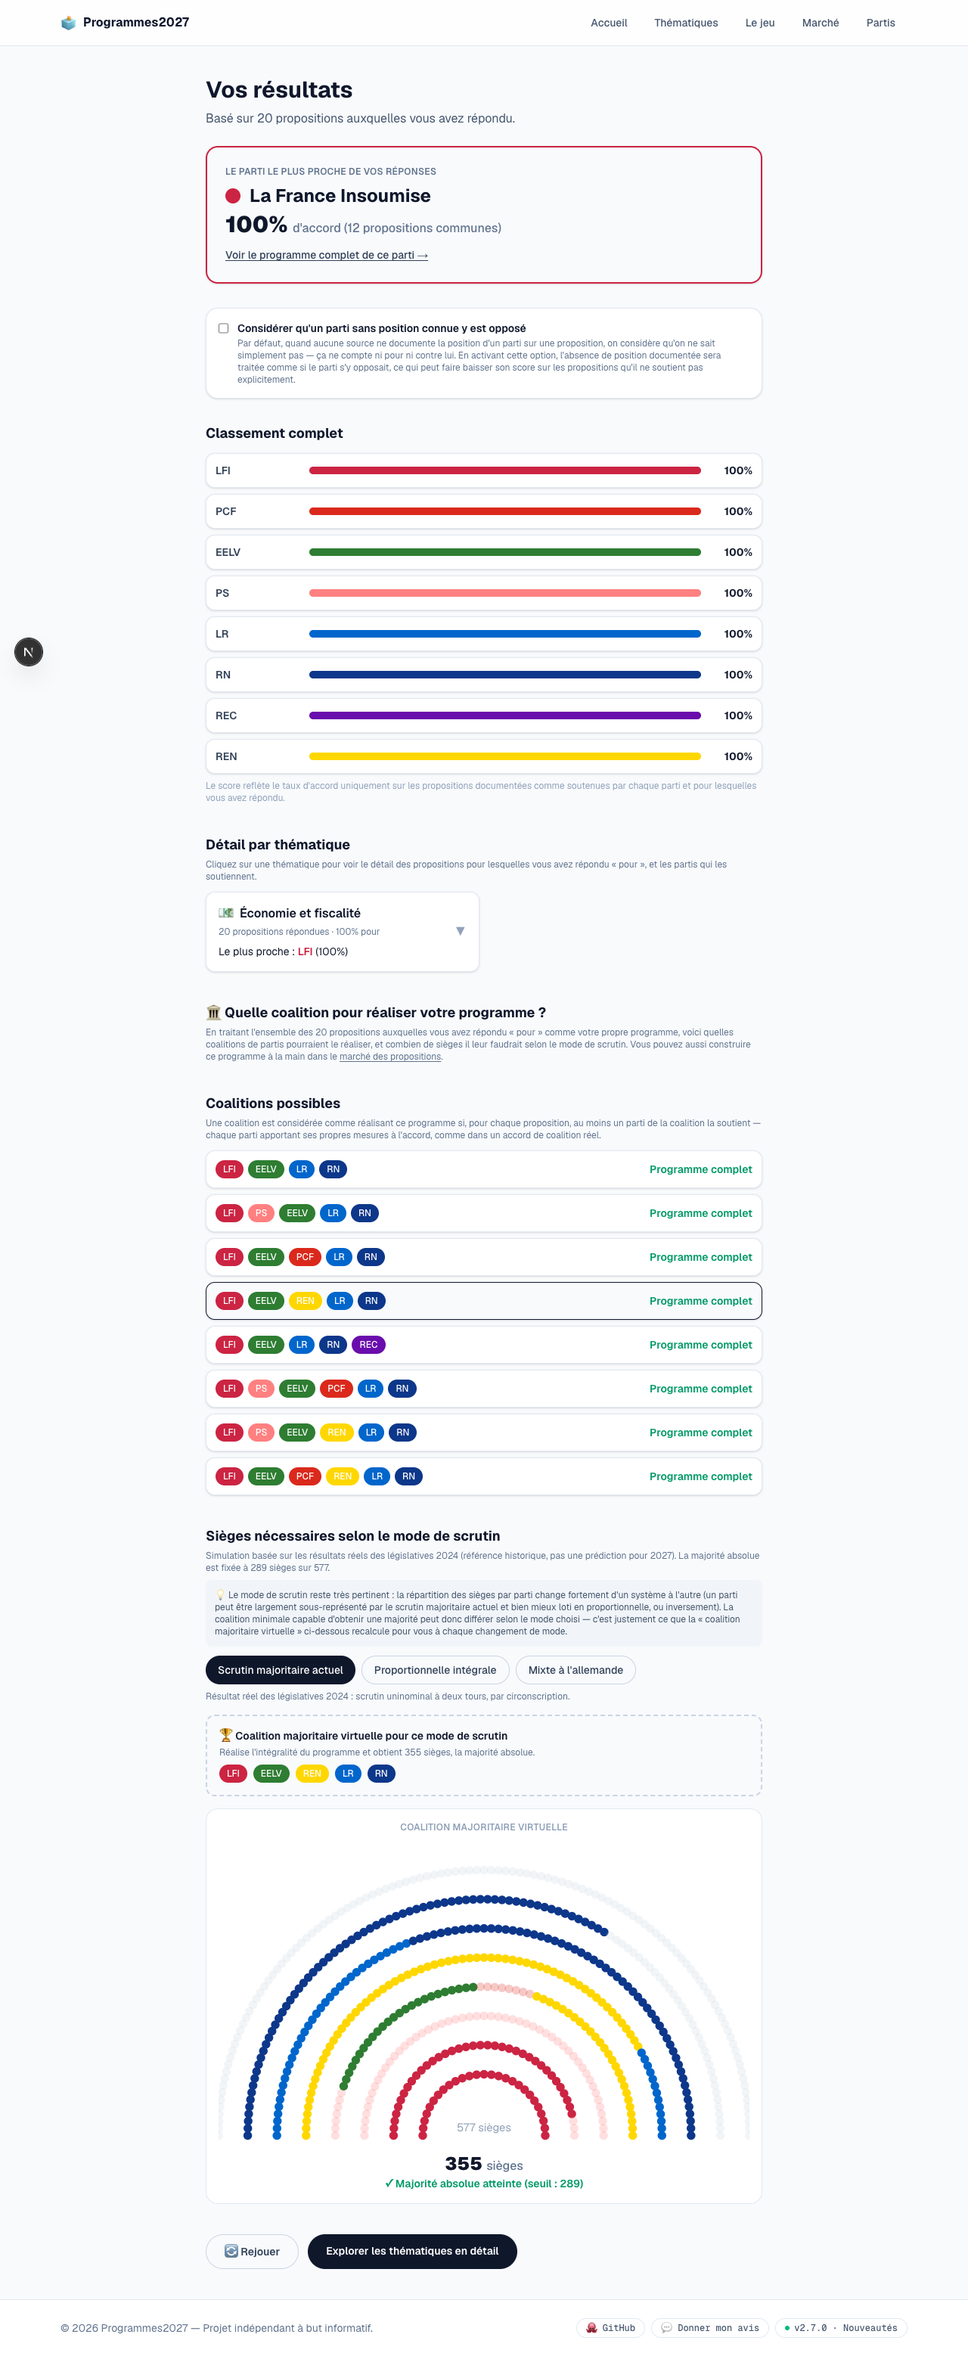
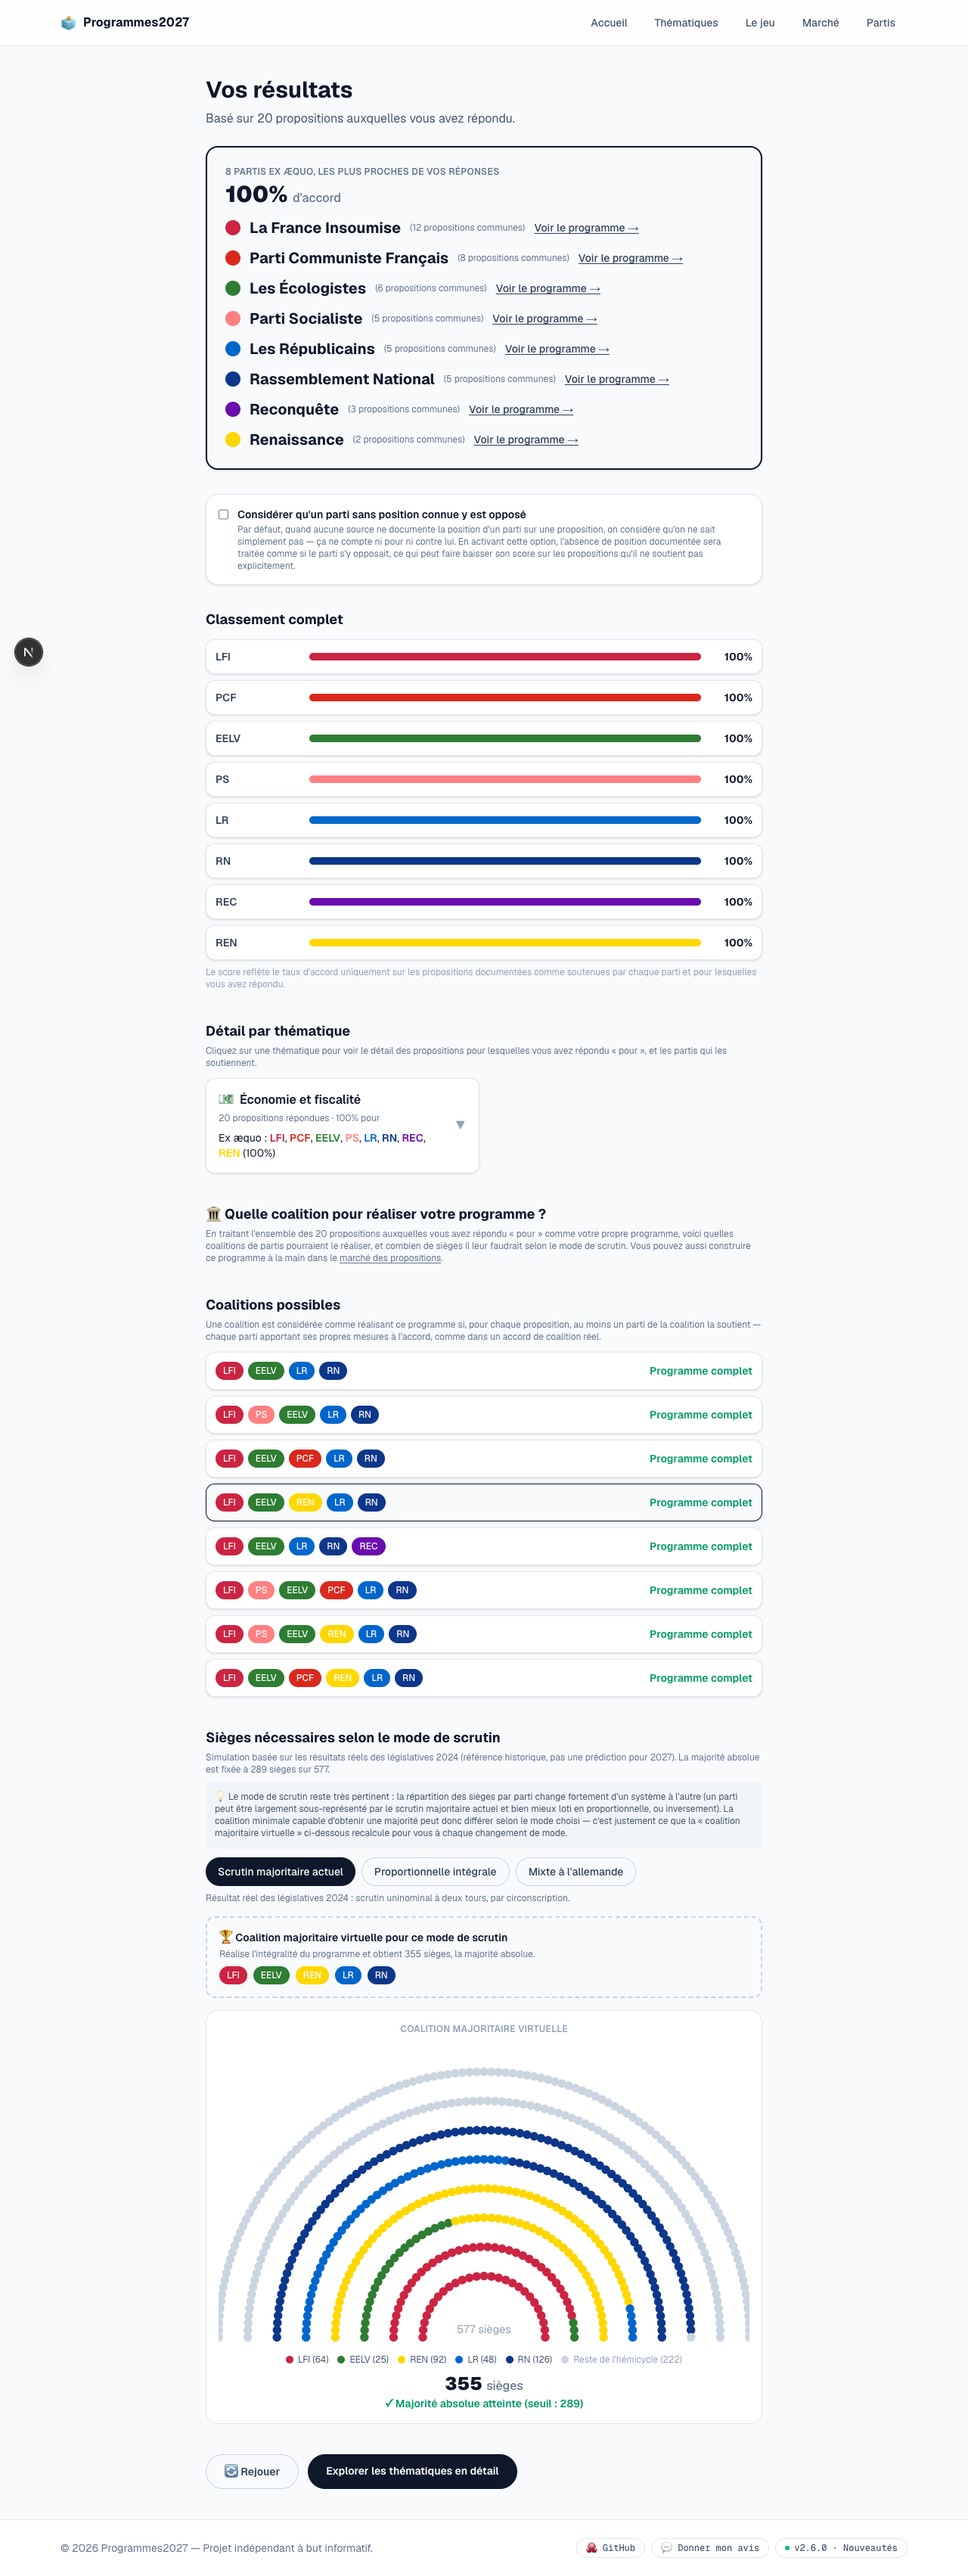
Redesign hemicycle like Le Monde's coalition simulator

Changed region(s): [[0.2188, 0.0311, 0.7812, 0.9653], [0.2188, 0.9342, 0.2812, 0.9653], [0.0, 0.2491, 0.0625, 0.2803]]

diff --git a/src/components/Hemicycle.tsx b/src/components/Hemicycle.tsx
@@ -11,11 +11,36 @@ interface HemicycleProps {
   highlightParties?: PartyId[];
 }
 
+const OTHER_COLOR = "#CBD5E1"; // slate-300
+
 /**
- * Simple semi-circle hemicycle visualization: seats are laid out along
- * concentric arcs, filled in party order (an approximation of a real
- * hemicycle seating chart — not an exact reproduction of the Assemblée
- * nationale's actual seat-by-seat layout).
+ * Left-to-right political ordering used to group coalition seats
+ * together in a sensible order (roughly matching how French party
+ * spectrum charts are usually drawn), instead of an arbitrary object key
+ * order.
+ */
+const POLITICAL_ORDER: PartyId[] = [
+  "lfi",
+  "pcf",
+  "eelv",
+  "ps",
+  "renaissance",
+  "lr",
+  "rn",
+  "reconquete",
+];
+
+/**
+ * Hemicycle visualization inspired by Le Monde's coalition simulator
+ * (https://www.lemonde.fr/les-decodeurs/.../simulateur-de-coalition):
+ * rather than showing every party in its "natural" seat block and
+ * dimming the ones outside the coalition, seats belonging to the
+ * coalition are packed together from the left, in political order, and
+ * every other seat (any party not in the coalition, plus the "autres"
+ * bloc) is grouped as a single grey mass on the right. This makes it
+ * immediately visible how much of the hemicycle the coalition actually
+ * fills, rather than requiring the reader to mentally sum scattered
+ * colored dots.
  */
 export function Hemicycle({
   seatsByParty,
@@ -23,28 +48,46 @@ export function Hemicycle({
   totalSeats,
   highlightParties,
 }: HemicycleProps) {
-  const OTHER_COLOR = "#CBD5E1"; // slate-300
+  const highlightSet = new Set(highlightParties ?? []);
 
-  const blocks: Array<{ id: string; color: string; count: number; dimmed: boolean }> = [
-    ...(Object.entries(seatsByParty) as Array<[PartyId, number | undefined]>)
-      .filter(([, count]) => (count ?? 0) > 0)
-      .map(([id, count]) => ({
-        id,
-        color: partyById[id].color,
-        count: count ?? 0,
-        dimmed: !!highlightParties && !highlightParties.includes(id),
-      })),
-    ...(otherSeats > 0
-      ? [{ id: "autres", color: OTHER_COLOR, count: otherSeats, dimmed: !!highlightParties }]
-      : []),
-  ];
+  const orderedPartyIds = Object.keys(seatsByParty).sort(
+    (a, b) => POLITICAL_ORDER.indexOf(a as PartyId) - POLITICAL_ORDER.indexOf(b as PartyId)
+  ) as PartyId[];
 
-  // Flatten into a single ordered list of per-seat colors.
-  const seatColors: Array<{ color: string; dimmed: boolean }> = [];
-  for (const b of blocks) {
-    for (let i = 0; i < b.count; i++) {
-      seatColors.push({ color: b.color, dimmed: b.dimmed });
+  const coalitionBlocks: Array<{ id: string; color: string; count: number }> = [];
+  let inactiveCount = otherSeats;
+
+  for (const id of orderedPartyIds) {
+    const count = seatsByParty[id] ?? 0;
+    if (count <= 0) continue;
+    if (highlightSet.has(id)) {
+      coalitionBlocks.push({ id, color: partyById[id].color, count });
+    } else {
+      inactiveCount += count;
     }
+  }
+
+  // If no coalition was specified at all, show every party in its own
+  // color (no grouping/greying) — falls back to the "everyone visible"
+  // case.
+  const noHighlight = !highlightParties || highlightParties.length === 0;
+  const blocks = noHighlight
+    ? [
+        ...orderedPartyIds
+          .filter((id) => (seatsByParty[id] ?? 0) > 0)
+          .map((id) => ({ id, color: partyById[id].color, count: seatsByParty[id] ?? 0 })),
+        ...(otherSeats > 0 ? [{ id: "autres", color: OTHER_COLOR, count: otherSeats }] : []),
+      ]
+    : [
+        ...coalitionBlocks,
+        ...(inactiveCount > 0 ? [{ id: "inactifs", color: OTHER_COLOR, count: inactiveCount }] : []),
+      ];
+
+  // Flatten into a single ordered list of per-seat colors, coalition
+  // (or all parties) first, grey mass last.
+  const seatColors: string[] = [];
+  for (const b of blocks) {
+    for (let i = 0; i < b.count; i++) seatColors.push(b.color);
   }
 
   const rows = 8;
@@ -64,7 +107,7 @@ export function Hemicycle({
     Math.max(1, Math.round((w / totalWeight) * seatColors.length))
   );
 
-  const seatNodes: Array<{ x: number; y: number; color: string; dimmed: boolean }> = [];
+  const seatNodes: Array<{ x: number; y: number; color: string }> = [];
   let seatIndex = 0;
   for (let row = 0; row < rows; row++) {
     const r = rowRadii[row];
@@ -74,31 +117,49 @@ export function Hemicycle({
       const angle = Math.PI - t * Math.PI; // left (PI) to right (0)
       const x = cx + r * Math.cos(angle);
       const y = cy - r * Math.sin(angle);
-      seatNodes.push({ x, y, color: seatColors[seatIndex].color, dimmed: seatColors[seatIndex].dimmed });
+      seatNodes.push({ x, y, color: seatColors[seatIndex] });
     }
   }
 
   return (
-    <svg viewBox={`0 0 ${width} ${height}`} className="w-full" role="img" aria-label="Hémicycle">
-      {seatNodes.map((s, i) => (
-        <circle
-          key={i}
-          cx={s.x}
-          cy={s.y}
-          r={4.2}
-          fill={s.color}
-          opacity={s.dimmed ? 0.25 : 1}
-        />
-      ))}
-      <text
-        x={cx}
-        y={cy - 4}
-        textAnchor="middle"
-        className="fill-slate-400"
-        style={{ fontSize: 11 }}
-      >
-        {totalSeats} sièges
-      </text>
-    </svg>
+    <div>
+      <svg viewBox={`0 0 ${width} ${height}`} className="w-full" role="img" aria-label="Hémicycle">
+        {seatNodes.map((s, i) => (
+          <circle key={i} cx={s.x} cy={s.y} r={4.2} fill={s.color} />
+        ))}
+        <text
+          x={cx}
+          y={cy - 4}
+          textAnchor="middle"
+          className="fill-slate-400"
+          style={{ fontSize: 11 }}
+        >
+          {totalSeats} sièges
+        </text>
+      </svg>
+
+      {!noHighlight && (
+        <div className="mt-2 flex flex-wrap items-center justify-center gap-x-3 gap-y-1">
+          {coalitionBlocks.map((b) => (
+            <span key={b.id} className="flex items-center gap-1.5 text-xs text-slate-600">
+              <span
+                className="h-2.5 w-2.5 rounded-full"
+                style={{ backgroundColor: b.color }}
+              />
+              {partyById[b.id as PartyId].shortName} ({b.count})
+            </span>
+          ))}
+          {inactiveCount > 0 && (
+            <span className="flex items-center gap-1.5 text-xs text-slate-400">
+              <span
+                className="h-2.5 w-2.5 rounded-full"
+                style={{ backgroundColor: OTHER_COLOR }}
+              />
+              Reste de l&apos;hémicycle ({inactiveCount})
+            </span>
+          )}
+        </div>
+      )}
+    </div>
   );
 }

diff --git a/README.md b/README.md
@@ -35,8 +35,9 @@ reprendre plus tard.
 
 ![Le jeu à l'aveugle](public/screenshots/jeu.png)
 
-À la fin, vos résultats vous indiquent le parti le plus proche de vos
-réponses, le détail par thématique (avec, pour chaque thématique, la
+À la fin, vos résultats vous indiquent le(s) parti(s) le(s) plus
+proche(s) de vos réponses (tous affichés ex æquo en cas d'égalité
+parfaite, plutôt qu'un choix arbitraire), le détail par thématique (avec, pour chaque thématique, la
 liste des propositions auxquelles vous avez répondu « pour » et les
 partis qui les soutiennent), un réglage pour choisir si l'absence de
 position connue d'un parti doit être traitée comme neutre ou comme une
